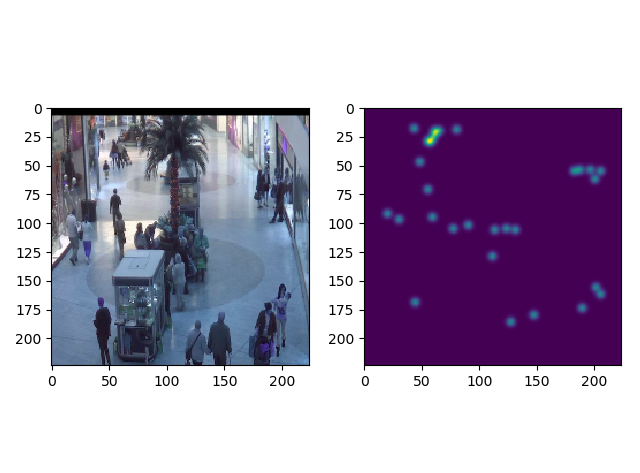
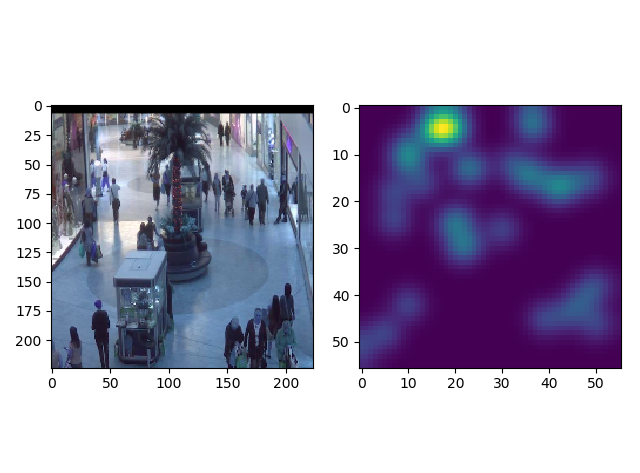
fix train bug.

Changed region(s): [[0.0, 0.2072, 0.9688, 0.8288], [0.7812, 0.5624, 0.9688, 0.74], [0.0312, 0.5624, 0.0625, 0.6808]]

diff --git a/train.py b/train.py
@@ -5,7 +5,7 @@ import sys
 import argparse
 import pandas as pd
 
-from keras.optimizers import RMSprop
+from keras.optimizers import SGD
 from keras.callbacks import ReduceLROnPlateau
 from sklearn.model_selection import train_test_split
 
@@ -22,11 +22,11 @@ def main(argv):
         help="The image size of train sample.")
     parser.add_argument(
         "--batch",
-        default=3,
+        default=2,
         help="The number of train samples per batch.")
     parser.add_argument(
         "--epochs",
-        default=100,
+        default=10,
         help="The number of train iterations.")
 
     args = parser.parse_args()
@@ -47,12 +47,12 @@ def train(batch, epochs, size):
 
     model = MSCNN((size, size, 3))
 
-    opt = RMSprop(lr=1e-3)
+    opt = SGD(lr=1e-5, momentum=0.9, decay=0.0005)
     model.compile(optimizer=opt, loss='mse')
 
-    lr = ReduceLROnPlateau(monitor='loss', min_lr=1e-5)
+    lr = ReduceLROnPlateau(monitor='loss', min_lr=1e-7)
 
-    indices = list(range(2000))
+    indices = list(range(1500))
     train, test = train_test_split(indices, test_size=0.25)
 
     hist = model.fit_generator(
@@ -63,7 +63,7 @@ def train(batch, epochs, size):
         epochs=epochs,
         callbacks=[lr])
 
-    model.save_weights('model\final_weights.h5')
+    model.save_weights('model\\final_weights.h5')
 
     df = pd.DataFrame.from_dict(hist.history)
     df.to_csv('model\\history.csv', index=False, encoding='utf-8')

diff --git a/data.py b/data.py
@@ -48,7 +48,7 @@ def map_pixels(img, image_key, annotations, size):
     Returns:
         pixels: ndarray, density map.
     """
-    gaussian_kernel = 5
+    gaussian_kernel = 15
     h, w = img.shape[:-1]
     sh, sw = size / h, size / w
     pixels = np.zeros((size, size))
@@ -105,13 +105,13 @@ def generator(indices, batch, size):
     count, position = read_annotations()
 
     i = 0
-    n = count.shape[0]
+    n = len(indices)
 
     if batch > n:
         raise Exception('Batch size {} is larger than the number of dataset {}!'.format(batch, n))
 
     while True:
-        if i + batch > n:
+        if i + batch >= n:
             np.random.shuffle(indices)
             i = 0
             continue
@@ -129,13 +129,16 @@ def generator(indices, batch, size):
             images.append(r[0])
             labels.append(r[1])
 
-        yield np.array(images), np.array(labels)    
+        images = np.array(images)
+        labels = np.array(labels)
+
+        yield images, labels    
 
 
 if __name__ == '__main__':
     count, position = read_annotations()
-    img, density_map = get_data(0, 224, position)
+    img, density_map = get_data(10, 224, position)
 
-    print(count[0][0])
+    print(count[10][0])
     print(int(np.sum(density_map)))
     visualization(img, density_map)

diff --git a/README.md b/README.md
@@ -1,2 +1,47 @@
 # MSCNN
-MSCNN()
+A Python 3 and Keras 2 implementation of MSCNN for people countingand provide train method.
+
+## Requirement
+- Python 3.6 
+- Keras 2.2.2
+- Tensorflow-gpu 1.8.0  
+- OpenCV 3.4
+
+## MSCNN and MSB architectures
+**MSCNN**  
+
+![MSCNN](/images/mscnn.png)
+
+**MSB**  
+
+![MSB](/images/msb.png)
+
+## Experiment
+
+**data**
+
+[Mall Dataset crowd counting dataset](http://personal.ie.cuhk.edu.hk/~ccloy/downloads_mall_dataset.html)
+
+Generate density_map from data：
+![density map](/images/density_map.png)
+
+**train**
+
+run the follow command:
+```
+python train.py --size 224 --batch 16 --epochs 100
+```
+
+## Reference
+
+	@article{MSCNN,  
+	  title={Multi-scale convolutional neural network for crowd counting},  
+	  author={Lingke Zeng, Xiangmin Xu, Bolun Cai, Suo Qiu, Tong Zhang},
+	  journal={2017 IEEE International Conference on Image Processing (ICIP)},
+	  year={2017}
+	}
+
+
+## Copyright
+See [LICENSE](LICENSE) for details.
+ 
